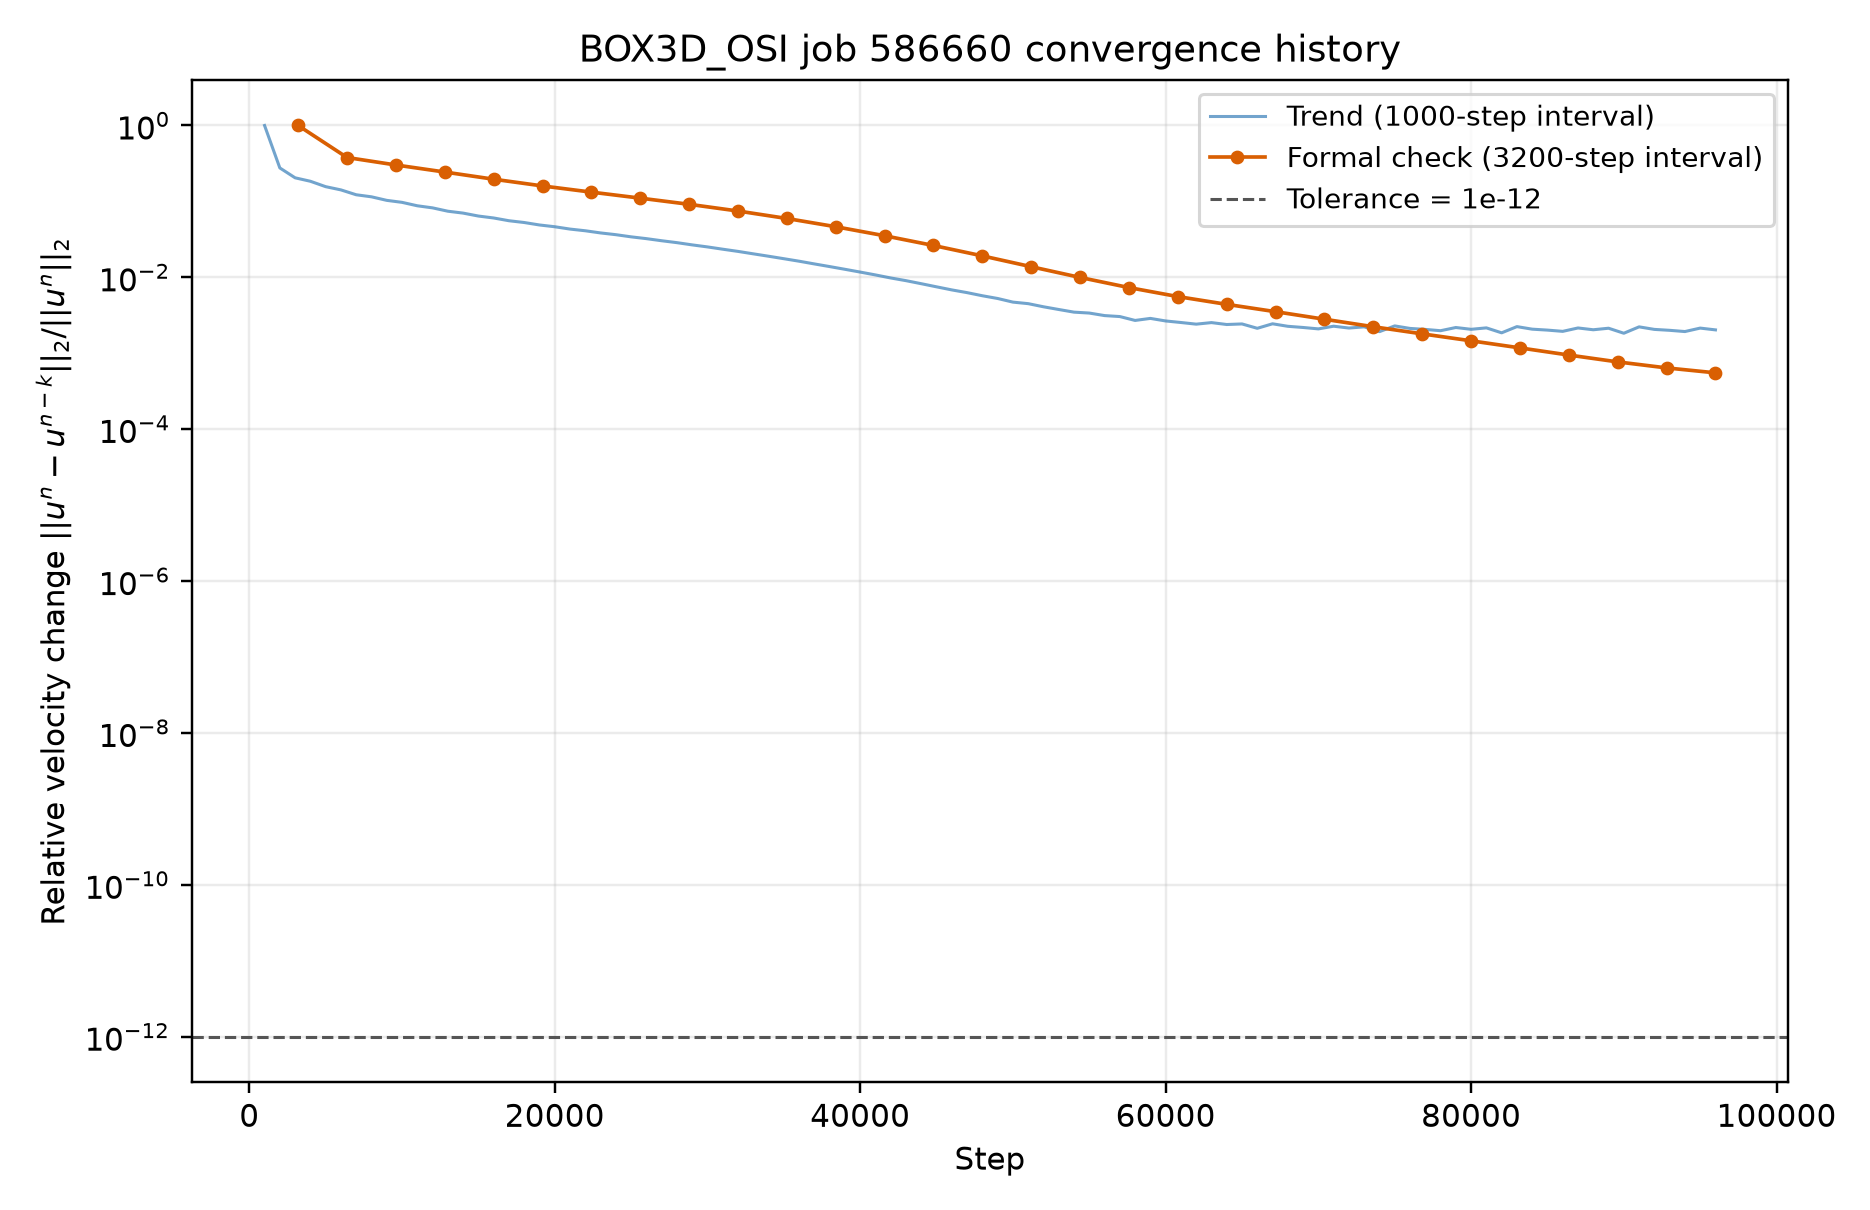
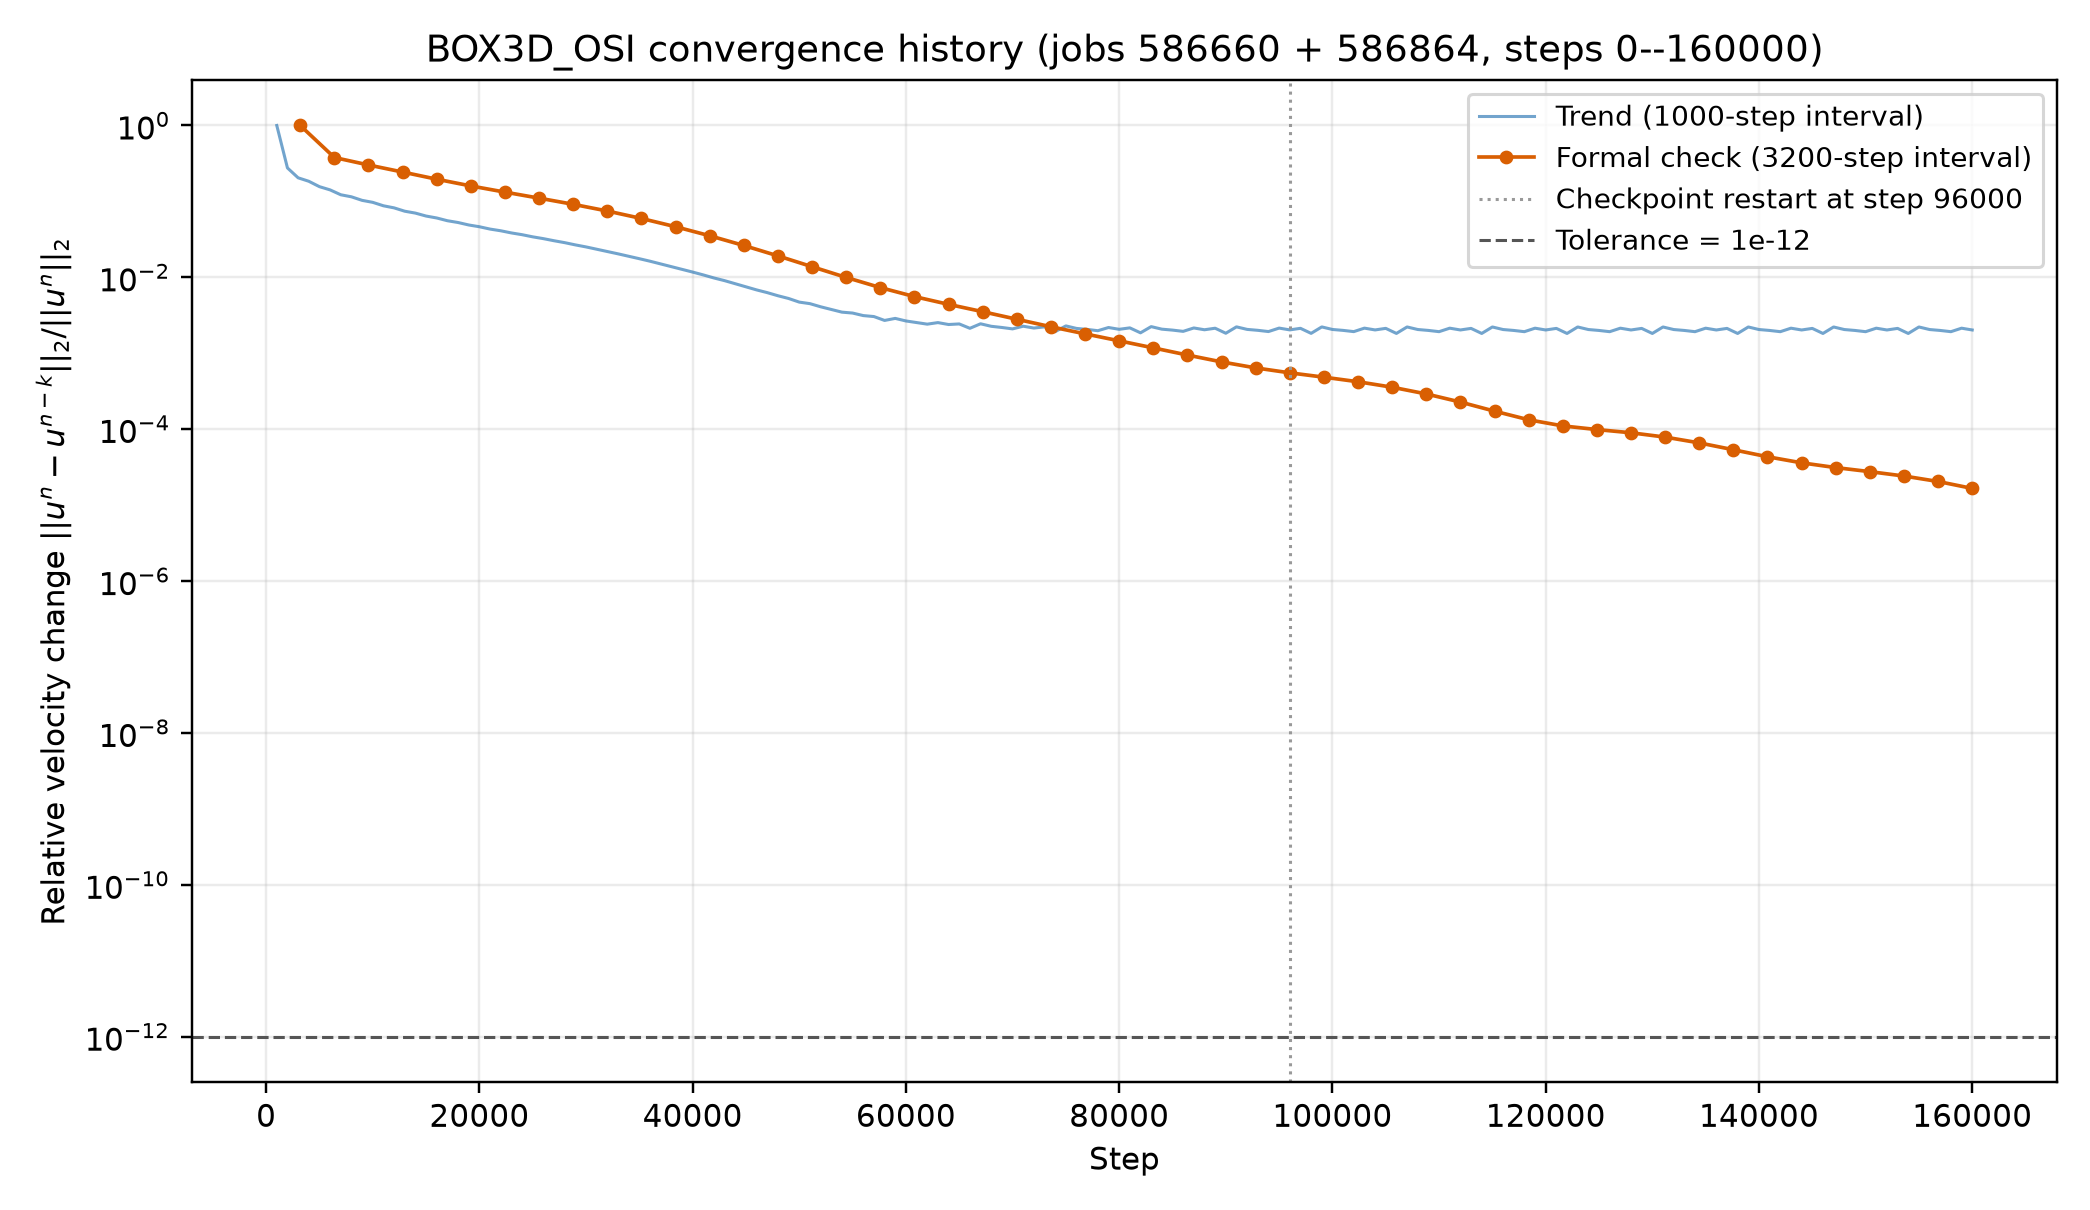
BOX3D_OSI: merge 586660 + 586864 convergence logs in plot script
Update plot_586660_convergence.py to read both the 0--96000 run
(586660) and the 96000--160000 restart run (586864), merge records by
step, and mark the checkpoint restart at step 96000. Regenerate
586660_convergence.png with the full 0--160000 history.

diff --git a/projects/3Dcases/Computing_performance_test/BOX3D_OSI/data_post_processing/plot_586660_convergence.py b/projects/3Dcases/Computing_performance_test/BOX3D_OSI/data_post_processing/plot_586660_convergence.py
@@ -1,41 +1,59 @@
 #!/usr/bin/env python3
-"""Plot convergence diagnostics from BOX3D_OSI submit job 586660."""
+"""Plot convergence diagnostics for BOX3D_OSI runs 586660 + 586864 (restart).
+
+586660 covers steps 0--96000; 586864 restarts from checkpoint 96000 and runs
+to 160000. The two logs are merged by step number to produce a single
+continuous convergence history.
+"""
 import re
 from pathlib import Path
 
 import matplotlib.pyplot as plt
 
 CASE = Path(__file__).resolve().parents[1]
-LOG = CASE / "logs" / "submit" / "586660-out.log"
+LOGS = [
+    CASE / "logs" / "submit" / "586660-out.log",
+    CASE / "logs" / "submit" / "586864-out.log",
+]
 OUT = CASE / "data_post_processing" / "586660_convergence.png"
 trend = re.compile(r"CONVERGENCE_TREND step=(\d+).*?velocity_l2_relative=([0-9.eE+-]+)")
 formal = re.compile(r"CONVERGENCE step=(\d+).*?velocity_l2_relative=([0-9.eE+-]+)")
 
-trend_points, formal_points = [], []
-for line in LOG.read_text(errors="replace").splitlines():
-    match = trend.search(line)
-    if match:
-        trend_points.append((int(match.group(1)), float(match.group(2))))
-    match = formal.search(line)
-    if match:
-        formal_points.append((int(match.group(1)), float(match.group(2))))
+trend_points, formal_points = {}, {}
+for log in LOGS:
+    if not log.exists():
+        raise SystemExit(f"Missing log: {log}")
+    for line in log.read_text(errors="replace").splitlines():
+        m = trend.search(line)
+        if m:
+            trend_points[int(m.group(1))] = float(m.group(2))
+        m = formal.search(line)
+        if m:
+            formal_points[int(m.group(1))] = float(m.group(2))
 
 if not trend_points or not formal_points:
-    raise SystemExit(f"No convergence records found in {LOG}")
+    raise SystemExit("No convergence records found")
 
-fig, ax = plt.subplots(figsize=(8.5, 5.5))
-ax.semilogy(*zip(*trend_points), color="#377eb8", lw=1.0, alpha=0.7,
+trend_xy = sorted(trend_points.items())
+formal_xy = sorted(formal_points.items())
+
+fig, ax = plt.subplots(figsize=(9.5, 5.5))
+ax.semilogy(*zip(*trend_xy), color="#377eb8", lw=1.0, alpha=0.7,
             label="Trend (1000-step interval)")
-ax.semilogy(*zip(*formal_points), "o-", color="#d95f02", ms=3.5, lw=1.2,
+ax.semilogy(*zip(*formal_xy), "o-", color="#d95f02", ms=3.5, lw=1.2,
             label="Formal check (3200-step interval)")
+ax.axvline(96000, color="#999999", ls=":", lw=1.0,
+           label="Checkpoint restart at step 96000")
 ax.axhline(1e-12, color="#555555", ls="--", lw=1.0, label="Tolerance = 1e-12")
 ax.set_xlabel("Step")
 ax.set_ylabel(r"Relative velocity change $||u^n-u^{n-k}||_2/||u^n||_2$")
-ax.set_title("BOX3D_OSI job 586660 convergence history")
+ax.set_title("BOX3D_OSI convergence history (jobs 586660 + 586864, steps 0--160000)")
 ax.grid(True, which="both", alpha=0.25)
 ax.legend(fontsize=9)
 fig.tight_layout()
 fig.savefig(OUT, dpi=220)
-print(f"trend points: {len(trend_points)}, formal points: {len(formal_points)}")
-print(f"formal minimum: step={min(formal_points, key=lambda p: p[1])[0]}, value={min(p[1] for p in formal_points):.6e}")
+print(f"trend points: {len(trend_xy)}, formal points: {len(formal_xy)}")
+print(f"formal minimum: step={min(formal_xy, key=lambda p: p[1])[0]}, "
+      f"value={min(p[1] for p in formal_xy):.6e}")
+print(f"formal final: step={formal_xy[-1][0]}, value={formal_xy[-1][1]:.6e}")
 print(OUT)
